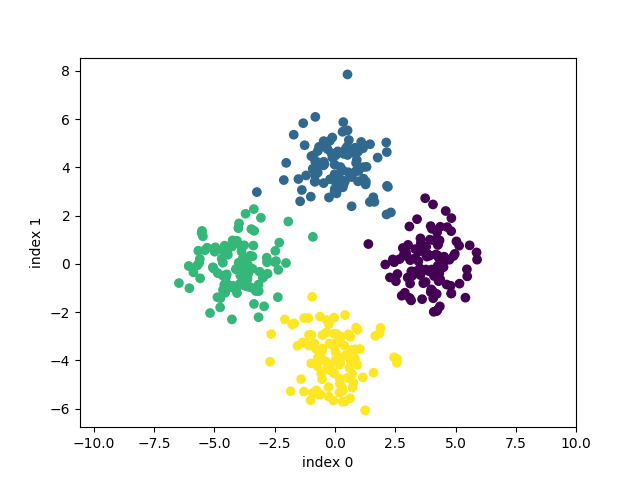
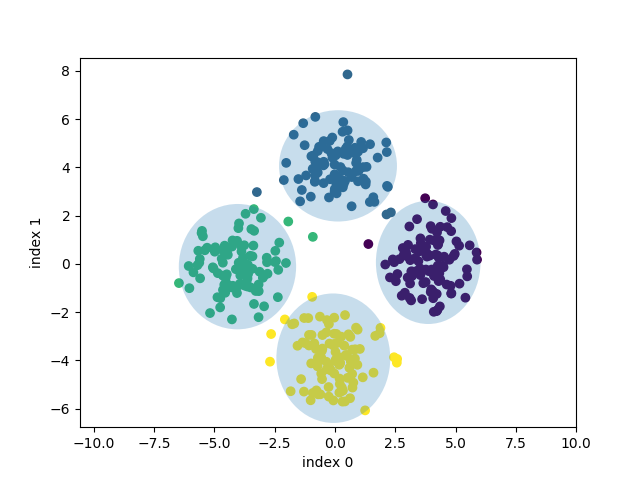
gmm is workingish

Changed region(s): [[0.2812, 0.2188, 0.75, 0.9062]]

diff --git a/Assignment-4/gmm.py b/Assignment-4/gmm.py
@@ -1,7 +1,10 @@
 import numpy as np
 import numpy.linalg as la
+from numpy import ma
 from kmeans import KMeans
 import sys
+np.seterr(divide='ignore', invalid='ignore')
+
 
 
 class GMM():
@@ -49,7 +52,7 @@ class GMM():
             # - compute variance and pi_k
             km = KMeans(self.n_cluster, max_iter=self.max_iter, e=self.e)
             self.means, memberships, _  = km.fit(x)
-            
+
             quorem = np.bincount(memberships)
             self.variances = np.zeros((self.n_cluster, D, D))
             self.pi_k = np.zeros((self.n_cluster))
@@ -78,25 +81,28 @@ class GMM():
         l = 0
         for iter in range(self.max_iter):
             # E step
-            gammas = np.zeros((N,self.n_cluster))
+            gammas_num = np.zeros((N,self.n_cluster))
             for i,xi in enumerate(x):
                 for k in range(self.n_cluster):
-                    gammas[i][k] = self.pi_k[k] * self.multi_gaussian(xi,self.means[k], self.variances[k])
-            likelihood = np.sum(gammas, axis=1).reshape(N, 1)
-            l_new = np.sum(gammas.T @ np.log(likelihood), axis= 0)[0]
-            self.gammas = gammas / likelihood
+                    gammas_num[i][k] = self.pi_k[k] * self.multi_gaussian(xi,self.means[k], self.variances[k])
+            
+            gammas_den = np.sum(gammas_num, axis=1).reshape(N, 1)
+            likelihood = np.sum(ma.log(gammas_num).data, axis=1).reshape(N, 1)
+            # l_new = np.sum(gammas.T @ np.log(likelihood), axis= 0)[0]
+            l_new = np.sum(likelihood, axis= 0)[0]
+            self.gammas = gammas_num / gammas_den
 
             # M step
-            n_k = np.sum(gammas, axis=0).reshape(self.n_cluster,1)
+            n_k = np.sum(self.gammas, axis=0).reshape(self.n_cluster,1)
             self.pi_k = n_k / N
-            self.means = (gammas.T @ x) / n_k
+            
+            self.means = (self.gammas.T @ x) / n_k
 
             self.variances = np.zeros((self.n_cluster, D, D))
             for k in range(self.n_cluster):
-                diff = np.sqrt(gammas[:,k].reshape(N, 1)) * (x - self.means[k])
+                diff = np.sqrt(self.gammas[:,k].reshape(N, 1)) * (x - self.means[k])
                 self.variances[k] =  (diff.T @ diff) / n_k[k]
             
-            # print(l_new)
             if np.abs(l - l_new) <= self.e:
                 update_count = iter
                 break
@@ -111,8 +117,17 @@ class GMM():
     def multi_gaussian(self, xi, uk, vark):
         while la.cond(vark) > 1 / sys.float_info.epsilon:
             vark += .001 * np.identity(vark.shape[0])
+        while np.linalg.matrix_rank(vark) != vark.shape[0]:
+            vark += .001 * np.identity(vark.shape)
         pdf = (1 / np.sqrt( np.power(2*np.pi, xi.shape[0]) * la.det(vark)) ) * np.exp( -(1 / 2) * ((xi - uk).T @ la.inv(vark) @ (xi - uk)) )
         return pdf
+
+    # while np.linalg.matrix_rank(self.variances[k]) != self.variances[k].shape[0]:
+    #         self.variances[k] += 1e-3 * np.identity(self.variances.shape)
+
+    #     l = 1 / np.sqrt(((2 * np.pi) ** len(x)) * np.linalg.det(self.variances[k]))
+    #     r = np.exp((-0.5) * (x - self.means[k]) @ np.linalg.inv(self.variances[k]) @ (x - self.means[k]).T)
+    #     return l * r
 
     def sample(self, N):
         '''
@@ -127,14 +142,13 @@ class GMM():
         if (self.means is None):
             raise Exception('Train GMM before sampling')
 
-        # TODO
-        # - comment/remove the exception
         # - generate samples from the GMM
         # - return the samples
-
-        # DONOT MODIFY CODE ABOVE THIS LINE
-        raise Exception('Implement sample function in gmm.py')
-        # DONOT MODIFY CODE BELOW THIS LINE
+        s = []
+        for n in range(N):
+            k = np.random.randint(self.n_cluster)
+            s.append(np.random.multivariate_normal(self.means[k], self.variances[k]))
+        return np.array(s)
 
     def compute_log_likelihood(self, x):
         '''
@@ -150,10 +164,7 @@ class GMM():
         for i,xi in enumerate(x):
             for k in range(self.n_cluster):
                 gammas[i][k] = self.pi_k[k] * self.multi_gaussian(xi,self.means[k], self.variances[k])
-        likelihood = np.sum(gammas, axis=1).reshape(len(x), 1)
-        gammas = gammas / likelihood
-        ll = np.sum(gammas.T @ np.log(likelihood), axis= 0)[0]
-        # print(ll)
-        # print(type(ll))
-        return float(ll)
+        log = np.sum(ma.log(gammas).data, axis=1).reshape(len(x), 1)
+        ll = np.sum(log, axis= 0)[0]
 
+        return float(ll)

diff --git a/Assignment-4/kmeans.py b/Assignment-4/kmeans.py
@@ -119,13 +119,17 @@ class KMeansClassifier():
 
         k_means = KMeans(self.n_cluster, max_iter=self.max_iter, e=self.e)
         centroids, memberships, _ = k_means.fit(x)
-        centroid_quorem = np.zeros((self.n_cluster, self.n_cluster))
-        for yn, m in zip(y, memberships):
-            centroid_quorem[m][yn] += 1
+        
+        centroid_labels_buckets = [[0] for l in range(self.n_cluster)]
 
-        centroid_labels = np.array([ np.argmax(c) for c in centroid_quorem ])
+        for i, yi in enumerate(y):
+            centroid_labels_buckets[memberships[i]].append(yi)
 
-        self.centroid_labels = centroid_labels
+        centroid_labels = []
+        for u in centroid_labels_buckets:
+            centroid_labels.append(np.bincount(u).argmax()) 
+
+        self.centroid_labels = np.array(centroid_labels) 
         self.centroids = centroids
 
         assert self.centroid_labels.shape == (self.n_cluster,), 'centroid_labels should be a vector of shape {}'.format(
@@ -148,10 +152,16 @@ class KMeansClassifier():
 
         np.random.seed(42)
         N, D = x.shape
+        predictions = []
+        for xn in x:
+            min_distance_ind = np.argmin([ np.power(la.norm(xn - u), .5) for u in self.centroids ])
+            predictions.append(self.centroid_labels[min_distance_ind])
 
-        return np.array([ self.centroid_labels[self.calc_nearest_centroid(xn)] for xn in x ])
+        return np.array(predictions)
 
-    def calc_nearest_centroid(self, xn):
-        euclidean_distances = [ la.norm(self.centroids - u) for u in self.centroids ]
-        centroid = np.argmin(euclidean_distances)
-        return centroid
+        # return np.arrays([ self.centroid_labels[self.calc_nearest_centroid(xn)] for xn in x ])
+
+    # def calc_nearest_centroid(self, xn):
+    #     euclidean_distances = [ la.norm(self.centroids - u) for u in self.centroids ]
+    #     centroid = np.argmin(euclidean_distances)
+    #     return centroid

diff --git a/Assignment-4/kmeansTest.py b/Assignment-4/kmeansTest.py
@@ -141,7 +141,7 @@ def kmeans_classification():
 
     classifier.fit(x_train, y_train)
     y_hat_test = classifier.predict(x_test)
-
+    print(y_test.shape)
     assert y_hat_test.shape == y_test.shape, \
         'y_hat_test and y_test should have same shape'
 
@@ -166,5 +166,5 @@ def kmeans_classification():
 
 if __name__ == '__main__':
     kmeans_toy()
-    kmeans_image_compression()
+    # kmeans_image_compression()
     kmeans_classification()

diff --git a/Assignment-4/gmmTest.py b/Assignment-4/gmmTest.py
@@ -9,7 +9,6 @@ def compute_elipse_params(variance):
     '''
         Compute elipse params for plotting from variance
     '''
-
     # http://www.cs.cornell.edu/cv/OtherPdf/Ellipse.pdf Slide 17
     # https://stackoverflow.com/a/41821484
 
